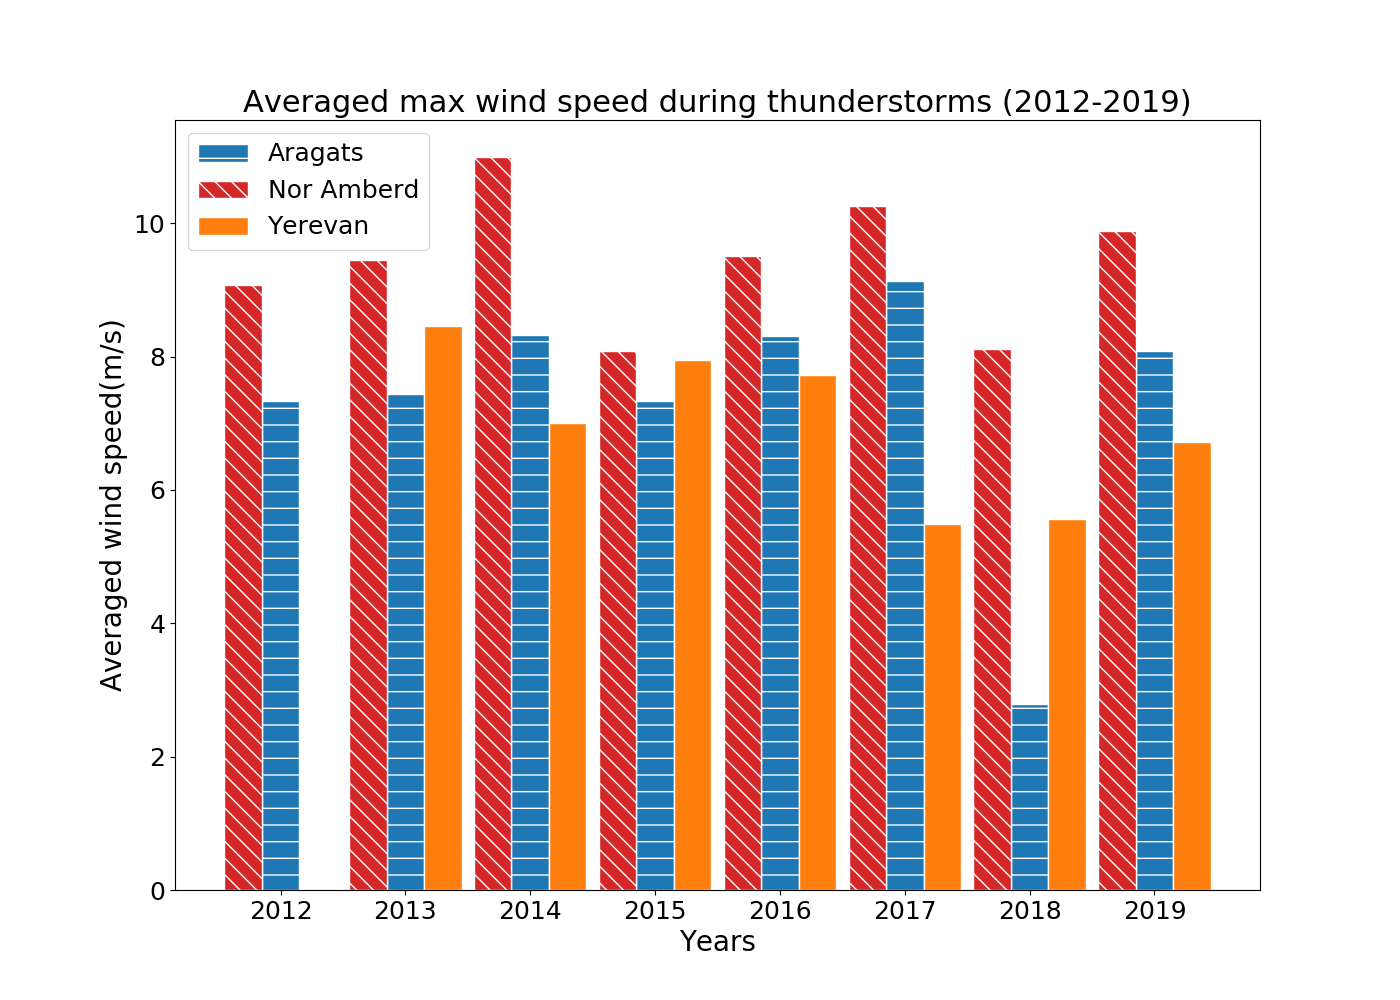
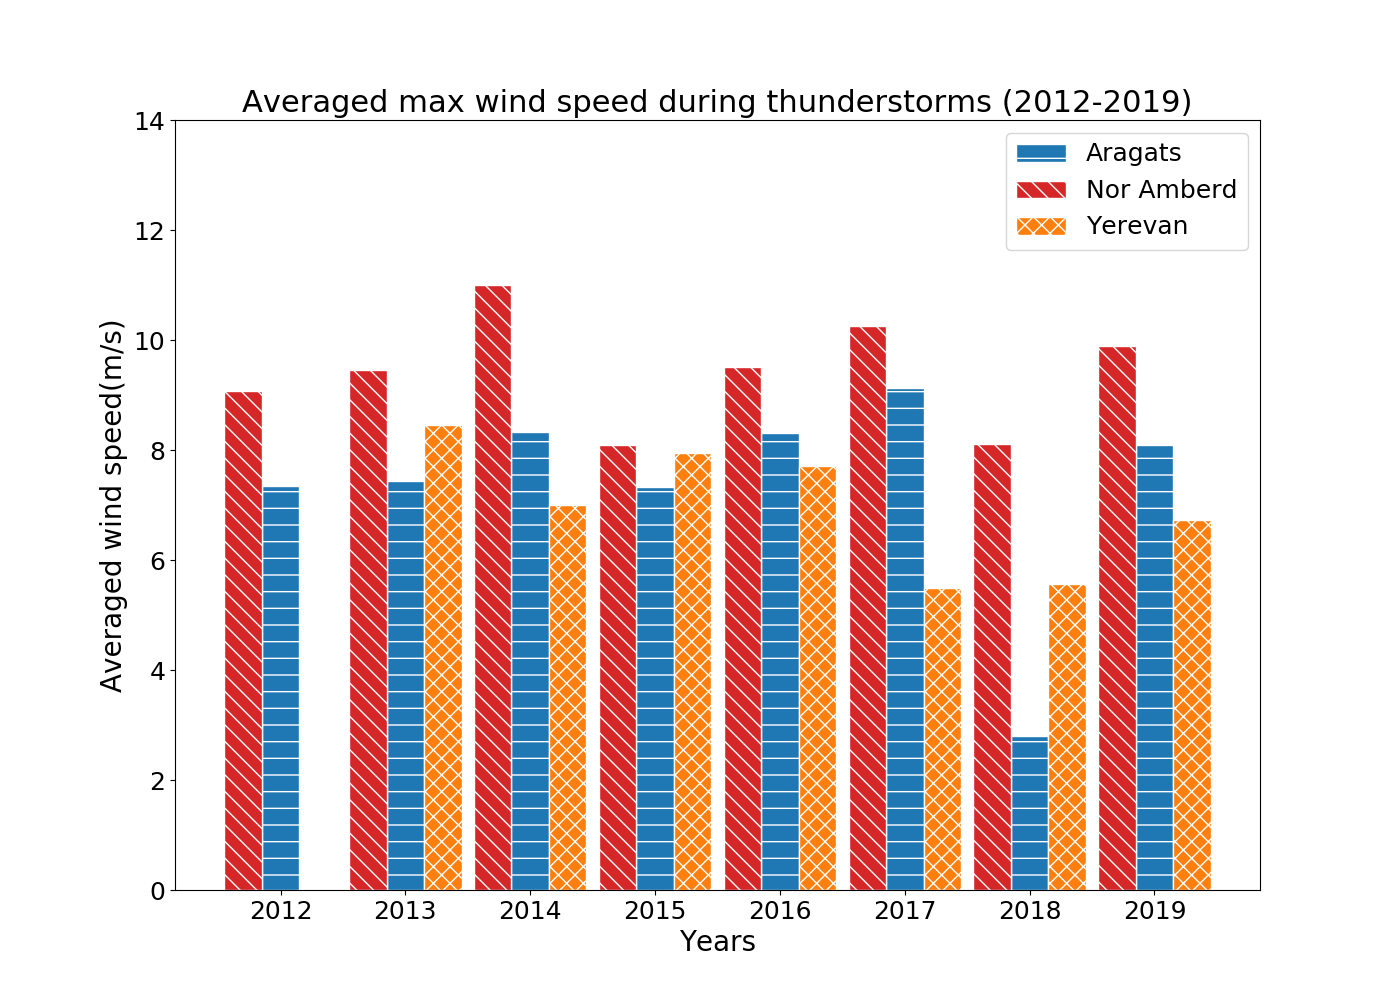
made changes

diff --git a/fforplot.py b/fforplot.py
@@ -36,15 +36,17 @@ def yearlybar(lst1,lst2,lst3,ax3):
     ax3.bar(ind - 0.3, lst2 ,width = 0.3,label = 'Nor Amberd', hatch= "\\\\", edgecolor = 'white', color='C3')
     ax3.bar(ind + 0.3, lst3 ,width = 0.3,label = 'Yerevan', hatch= h, edgecolor = 'white', color='C1')
     #ax3.legend(loc='center left', bbox_to_anchor=(1, 0.5), fontsize = 13)
+    ax3.legend(fontsize = 18)
     
-    ax3.set_ylim(0,120)
+    #ax3.set_ylim(0,120)
+    ax3.set_ylim(0,14)
     xTickMarks = [' ','2012','2013','2014','2015','2016','2017','2018','2019']
     xtickNames = ax3.set_xticklabels(xTickMarks)
     plt.setp(xtickNames, fontsize = 20)
     ax3.tick_params(axis='both', which='major', labelsize=18)
-    ax3.set_ylabel('Count of Thunderstorm', fontsize = 18)
-    #ax3.set_title('Averaged max wind speed during thunderstorms (2012-2019)', fontsize = 22)
-    #ax3.set_ylabel('Averaged wind speed(m/s)', fontsize = 20)
+    #ax3.set_ylabel('Count of Thunderstorm', fontsize = 18)
+    ax3.set_title('Averaged max wind speed during thunderstorms (2012-2019)', fontsize = 22)
+    ax3.set_ylabel('Averaged wind speed(m/s)', fontsize = 20)
     ax3.set_xlabel('Years', fontsize = 20)
-    ax3.text(-1, -15, 'a)', fontsize = 18)
+    #ax3.text(-1, -15, 'a)', fontsize = 18)
 

diff --git a/plots.py b/plots.py
@@ -38,7 +38,7 @@ def condit(para):
     if str(para)[0] != 'N':
         return(True)
 
-def main(dat,opt):
+def main(dat,opt, yer):
     hour = []
     months = []
     years = []
@@ -133,7 +133,7 @@ plt.savefig('Figure3.png', dpi = 600)
 plt.show()'''
 #---------------------------------------------------Figure 1----------------------------------------
 
-l= max(main(ardat,1))+1
+'''l= max(main(ardat,1))+1
 
 fig, ax = plt.subplots(figsize=(16, 12))
 
@@ -146,10 +146,10 @@ fforplot.hourlyplot(fig,ax1,main(ardat,1),main(nadat,1),main(yedat,1),8,l)
 fforplot.monthlybar(main(ardat,2),main(nadat,2),main(yedat,2),ax2)
 fforplot.yearlybar(main(ardat,3),main(nadat,3),main(yedat,3),ax3)
 plt.savefig('Figure1.png')
-plt.show()
+plt.show()'''
 
 #--------------------------------------------Figure2-----------------------------
-'''arwinds = []
+arwinds = []
 artemps = []
 nawinds = []
 natemps = []
@@ -167,5 +167,5 @@ fig, ax3 = plt.subplots(figsize=(14, 10))
 #ax2=plt.subplot(1, 2, 2)
 fforplot.yearlybar(arwinds,nawinds,yewinds,ax3)
 #fforplot.yearlybar(artemps,natemps,yetemps,ax2)
-plt.savefig('Figure2.png') #, dpi = 600)
-plt.show()'''
+plt.savefig('Figure2q.png', dpi = 600)
+plt.show()
